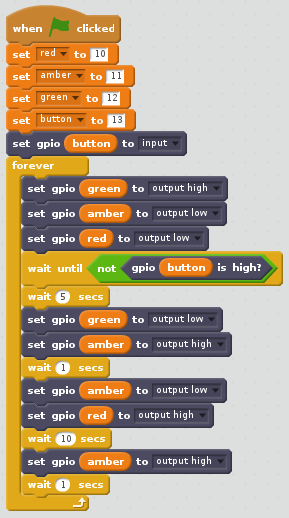
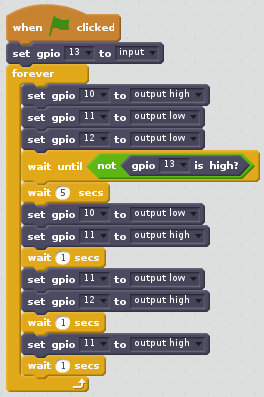
Update Scratch screenshots

diff --git a/scratch.md b/scratch.md
@@ -23,16 +23,16 @@ More:
 
 Hello world:
 
-![](images/scratch/buzzer-beep.png)
+![](images/scratch/led-blink.png)
 
 More:
 
 | Action            | Block                                   |
 | ----------------- |:--------------------------------------- |
-| ON                | ![](images/scratch/buzzer-on.png)       |
-| OFF               | ![](images/scratch/buzzer-off.png)      |
-| BLINK 2 SECONDS   | ![](images/scratch/buzzer-beep-2.png)   |
-| BLINK 0.1 SECONDS | ![](images/scratch/buzzer-beep-0.1.png) |
+| ON                | ![](images/scratch/led-on.png)       |
+| OFF               | ![](images/scratch/led-off.png)      |
+| BEEP 2 SECONDS    | ![](images/scratch/led-blink-2.png)   |
+| BEEP 0.1 SECONDS  | ![](images/scratch/led-blink-0.1.png) |
 
 ### Button
 
@@ -64,7 +64,7 @@ Press the button to light the LED:
 
 Press the button to buzz the Buzzer:
 
-![](images/scratch/buzzer-button.png)
+![](images/scratch/led-button.png)
 
 ### Reaction game
 
